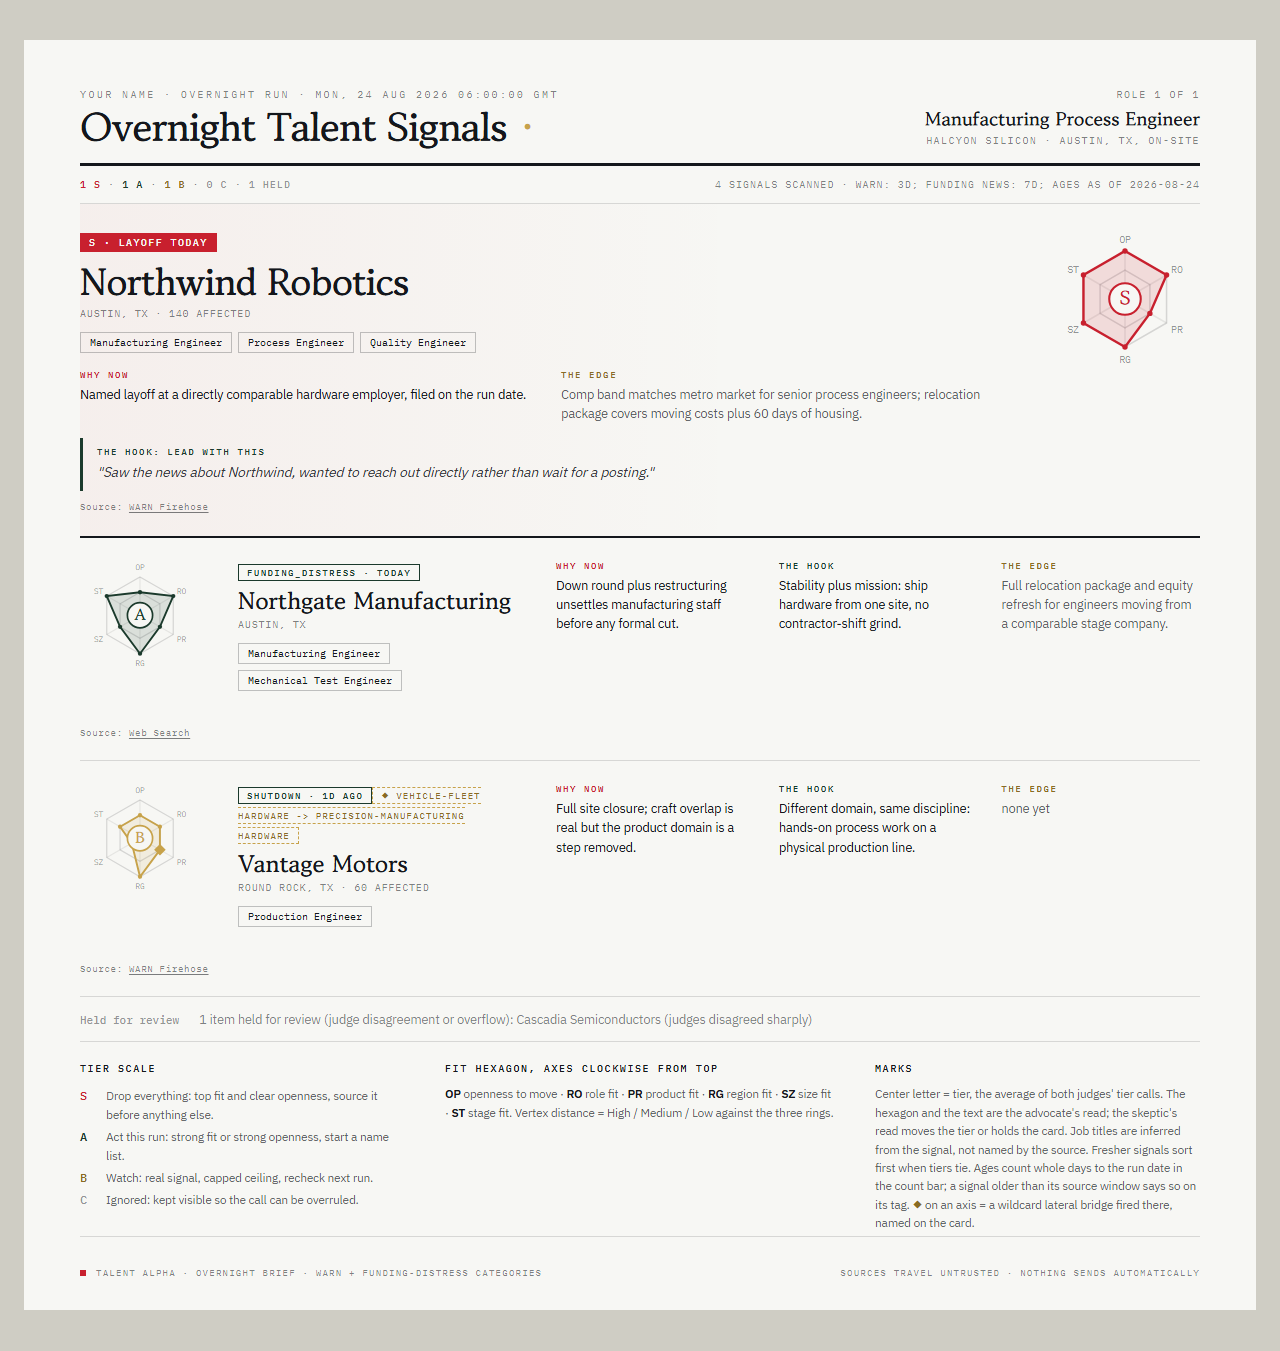
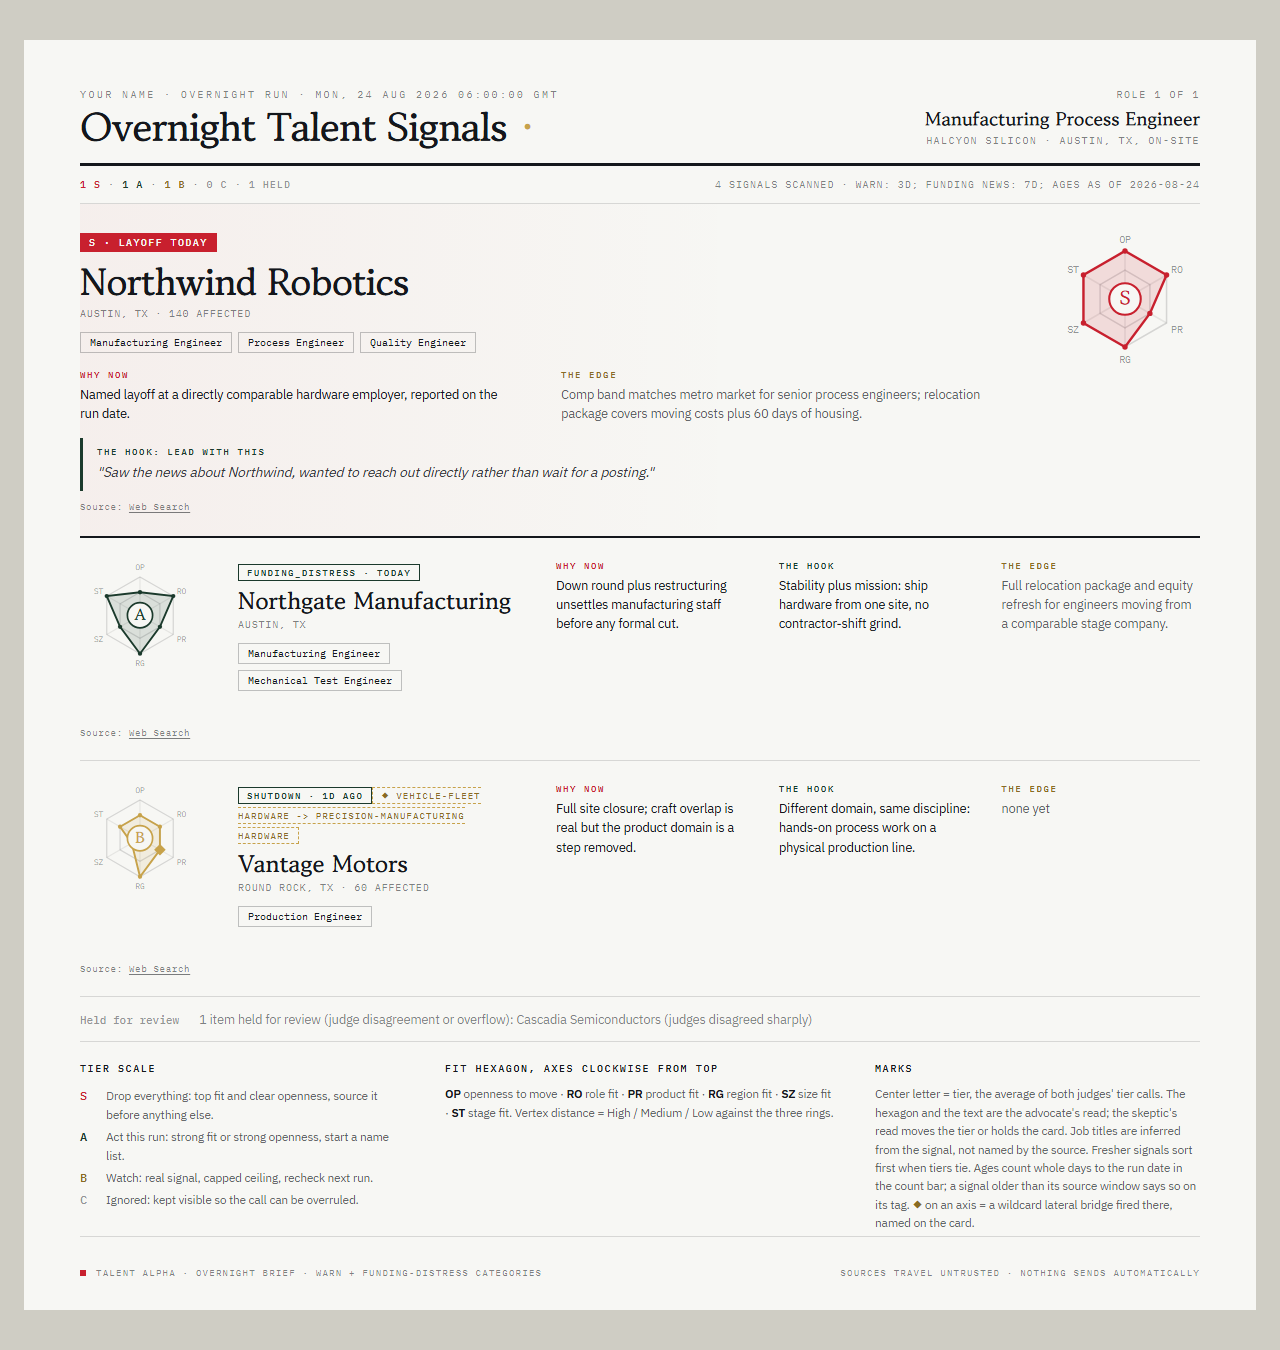
docs: front page with download button, step picture and honest sample cards

diff --git a/README.md b/README.md
@@ -1,49 +1,65 @@
-<div align="center">
-
 # OnePromptMan kit
 
-**Two helpers for the Claude desktop app. No code, no API key.**
+[![Download the OnePromptMan kit ZIP](docs/download-kit.svg)](https://github.com/onepromptman/routines/releases/latest/download/OnePromptMan-kit.zip)
 
-**Build Radar** tells you each week what people building with AI shipped.<br/>
-**Talent Alpha** tells you which companies just had layoff or funding news that matters for the role you are hiring.
+Two helpers for the Claude desktop app. No code, no API key.
 
-<br/>
+- **Talent Alpha** tells you which companies just had layoff or funding news that matters for the role you are hiring.
+- **Build Radar** tells you each week what people building with AI shipped, and one thing to try.
 
-<a href="https://github.com/onepromptman/routines/releases/latest/download/OnePromptMan-kit.zip">
-  <img src="https://img.shields.io/badge/Download%20the%20kit-ZIP-black?style=for-the-badge&logo=github" alt="Download the kit (ZIP)" height="56">
-</a>
+## Try the kit
 
-<sub>Then unzip it and open <b>Start here.html</b>.</sub>
+1. Click **Download the kit** and unzip it. Open **Start here.html** if you want the guide with pictures.
+2. In the Claude desktop app, open **Customize > Plugins > Add > Upload plugin**. Upload `talent-alpha.zip` and `build-radar.zip` from the `plugins` folder. Do not unzip these two.
+3. Make an empty folder. Start a new Cowork task and pick that folder. Type `set up talent alpha` or `set up build radar` and answer a few questions.
 
-</div>
+After that, type `run talent alpha` or `run build radar` whenever you want a fresh one.
 
-## Three steps
-
-1. **Download** the ZIP above and unzip it.
-2. **Upload** `build-radar.zip` and `talent-alpha.zip` from the `plugins` folder to the Claude desktop app: **Customize > Plugins > Add > Upload plugin**. Do not unzip these two.
-3. **Set up.** Make an empty folder. In the app, start a new Cowork task and pick that folder. Type `set up build radar` or `set up talent alpha`. Claude asks a few questions and does the rest.
-
-After that, type `run build radar` or `run talent alpha` whenever you want a fresh one.
+![The kit in three steps: download the ZIP, upload both plugin files, then set up and run in a Cowork task](docs/quick-start.svg)
 
 **You need:** the Claude desktop app (Windows or Mac) on a paid Claude plan. Talent Alpha also needs web search turned on. Build Radar may ask you to allow some websites; **Start here.html** shows where. No API key, no other account, no code.
 
-## What you get
+## Talent Alpha
 
-| | |
-|---|---|
-| ![Build Radar sample card](docs/build-radar-sample.png) | ![Talent Alpha sample card](docs/talent-alpha-sample.png) |
-| **Build Radar.** A short briefing and a one-page card. Every item links to its sources. | **Talent Alpha.** A ranked card of companies, why now, and a line to open with. It names companies, never people, and never contacts anyone. |
+A ranked card of companies with fresh layoff or funding news, graded S, A, B or C for how well the news fits your open role. Each company comes with why now, the source links and a draft first line. Run it again another day and it shows only what you have not seen.
 
-<sub>Sample cards made from fictional companies. The Talent Alpha sample shows official layoff filings as a source. The helper in this kit finds layoff news by web search instead.</sub>
+It finds news by web search. It names companies and job functions, never people, and it never contacts anyone. You read the card and decide.
+
+![A Talent Alpha card for a fictional role, with three fictional companies graded S, A and B, each with why now, a hook and web search sources](docs/talent-alpha-sample.png)
+
+Setup is a short conversation about the role you are hiring for:
+
+![An illustration of the Talent Alpha setup conversation: the role, the skills and location, and which signals to prioritize](docs/talent-alpha-setup.svg)
+
+## Build Radar
+
+A short weekly briefing on what people building with AI shipped, written for what you do, plus a one-page card. Every item links to its sources. Nothing is shown as a trend without two independent sources or a clear single-source flag, and every briefing ends with one thing to try.
+
+![A Build Radar card made from fictional data: one movement, its evidence, an adoption map and one thing to try this week](docs/build-radar-sample.png)
+
+Setup asks who the briefing is for and what to watch:
+
+![An illustration of the Build Radar setup conversation: who it is for, which sources to watch, what to leave out and when to run](docs/build-radar-setup.svg)
+
+<sub>Sample cards are made from fictional companies and data.</sub>
+
+## How it works
+
+```mermaid
+flowchart LR
+    A[Download the kit] --> B[Upload two plugin files]
+    B --> C[Set up: a few questions]
+    C --> D[Run]
+    D --> E[Card saved in your folder]
+    E --> F[You read it and decide]
+```
 
 ## Your data
 
-What you type goes to Claude, like any chat. Your answers and cards are saved only in the folder you choose. Delete the folder to delete them.
+What you type goes to Claude, like any chat. Your answers and cards are saved only in the folder you choose. Delete the folder to delete them. Nothing is emailed or posted.
 
-## More
+Both helpers were tested before this release. Mac has not been tried yet. Running them on a timetable is optional: see [Run it on a schedule](schedule/README.md).
 
-- [Run it on a schedule](schedule/README.md) (optional)
-- Source and details, for the curious. You do not need these to use the kit: [Talent Alpha](https://github.com/onepromptman/talent-alpha). Build Radar's source is inside the kit.
-- Something broke or confused you? [Open an issue](https://github.com/onepromptman/routines/issues). You need a free GitHub account for that.
+Something broke or confused you? [Open an issue](https://github.com/onepromptman/routines/issues) (needs a free GitHub account).
 
-[License](LICENSE) · © 2026 OnePromptMan
+[Release notes](https://github.com/onepromptman/routines/releases/latest) · [Talent Alpha source](https://github.com/onepromptman/talent-alpha) · [Apache 2.0 license](LICENSE) · [Security reporting](SECURITY.md) · © 2026 OnePromptMan

diff --git a/CHANGELOG.md b/CHANGELOG.md
@@ -2,6 +2,15 @@
 
 All notable changes to this repository are documented here. The plugins in the kit keep their own changelogs.
 
+## [Unreleased]
+
+Front page only. The kit download is unchanged.
+
+### Changed
+
+- Front page laid out like the Sori page: a download button, a three-step picture, a full-width sample card and a setup illustration for each helper, and a how-it-works diagram.
+- The Talent Alpha sample card is re-rendered with the plugin's own renderer and web search sources, the way the kit's helper finds news.
+
 ## [0.2.0] - 2026-11-11
 
 ### Added
